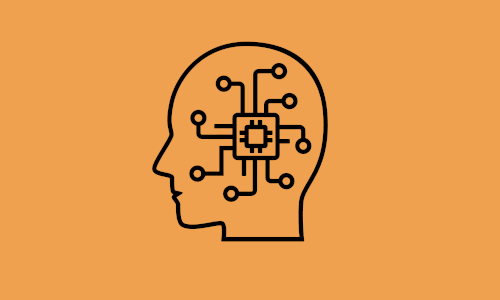
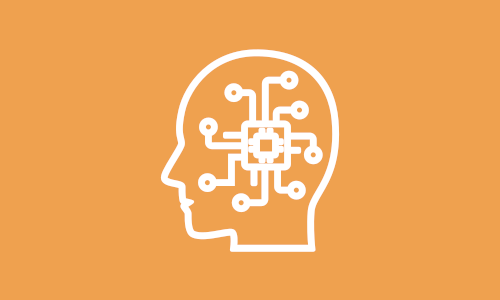
images update

Changed region(s): [[0.3, 0.12, 0.69, 0.84]]

diff --git a/index.md b/index.md
@@ -12,7 +12,7 @@ excerpt: >
     Welcome to my personal website.<br />
     Need help with AI system?<br />
 feature_row:
-  - image_path: /assets/images/noun-ai3.png
+  - image_path: /assets/images/noun-ai.png
     alt: "Creating AI"
     title: "Creating amazing AI and ML systems and ensure safety"
     excerpt: "I can create models, draft system designs, test your AI system for vulnerabilities and brainstorm solutions with you. I am very keen on discusing these kind of problems so feel free to just reach out."
